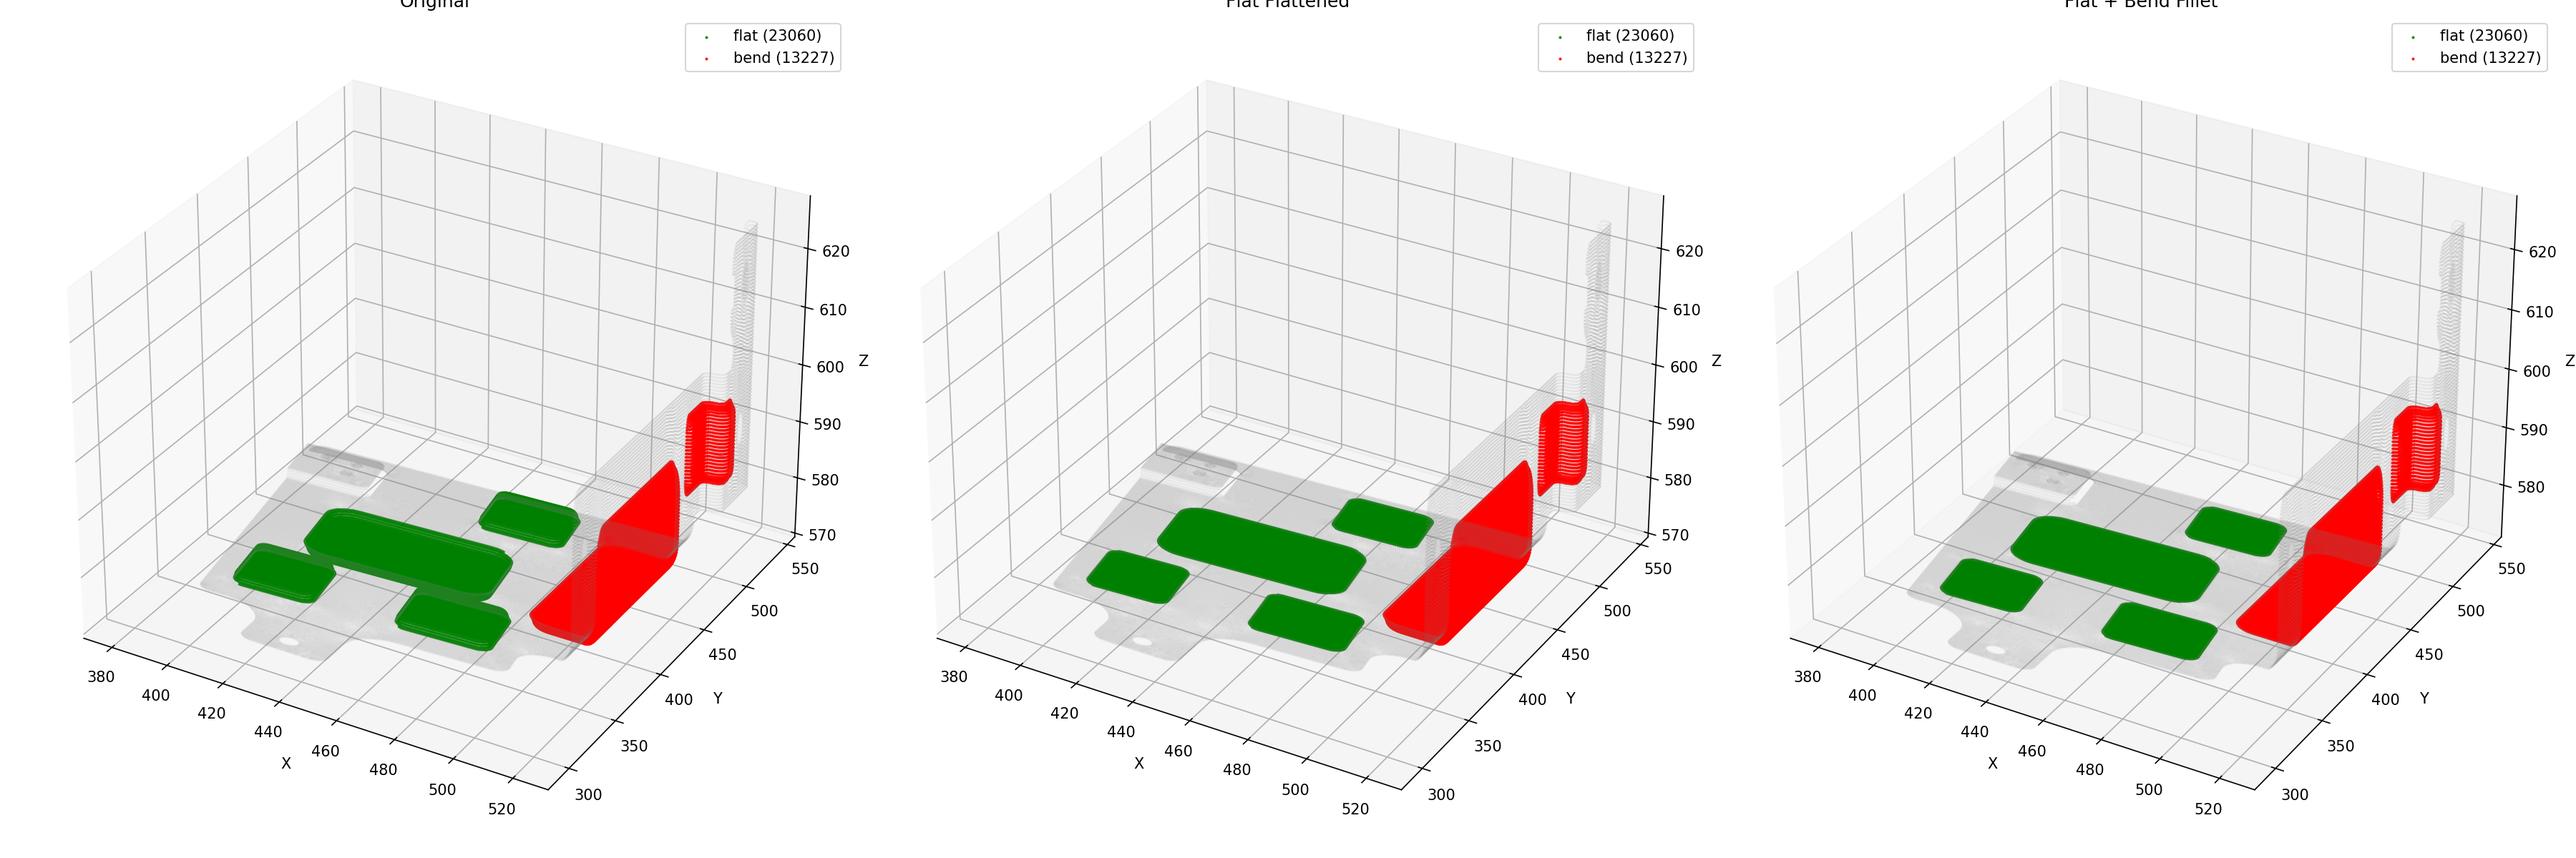
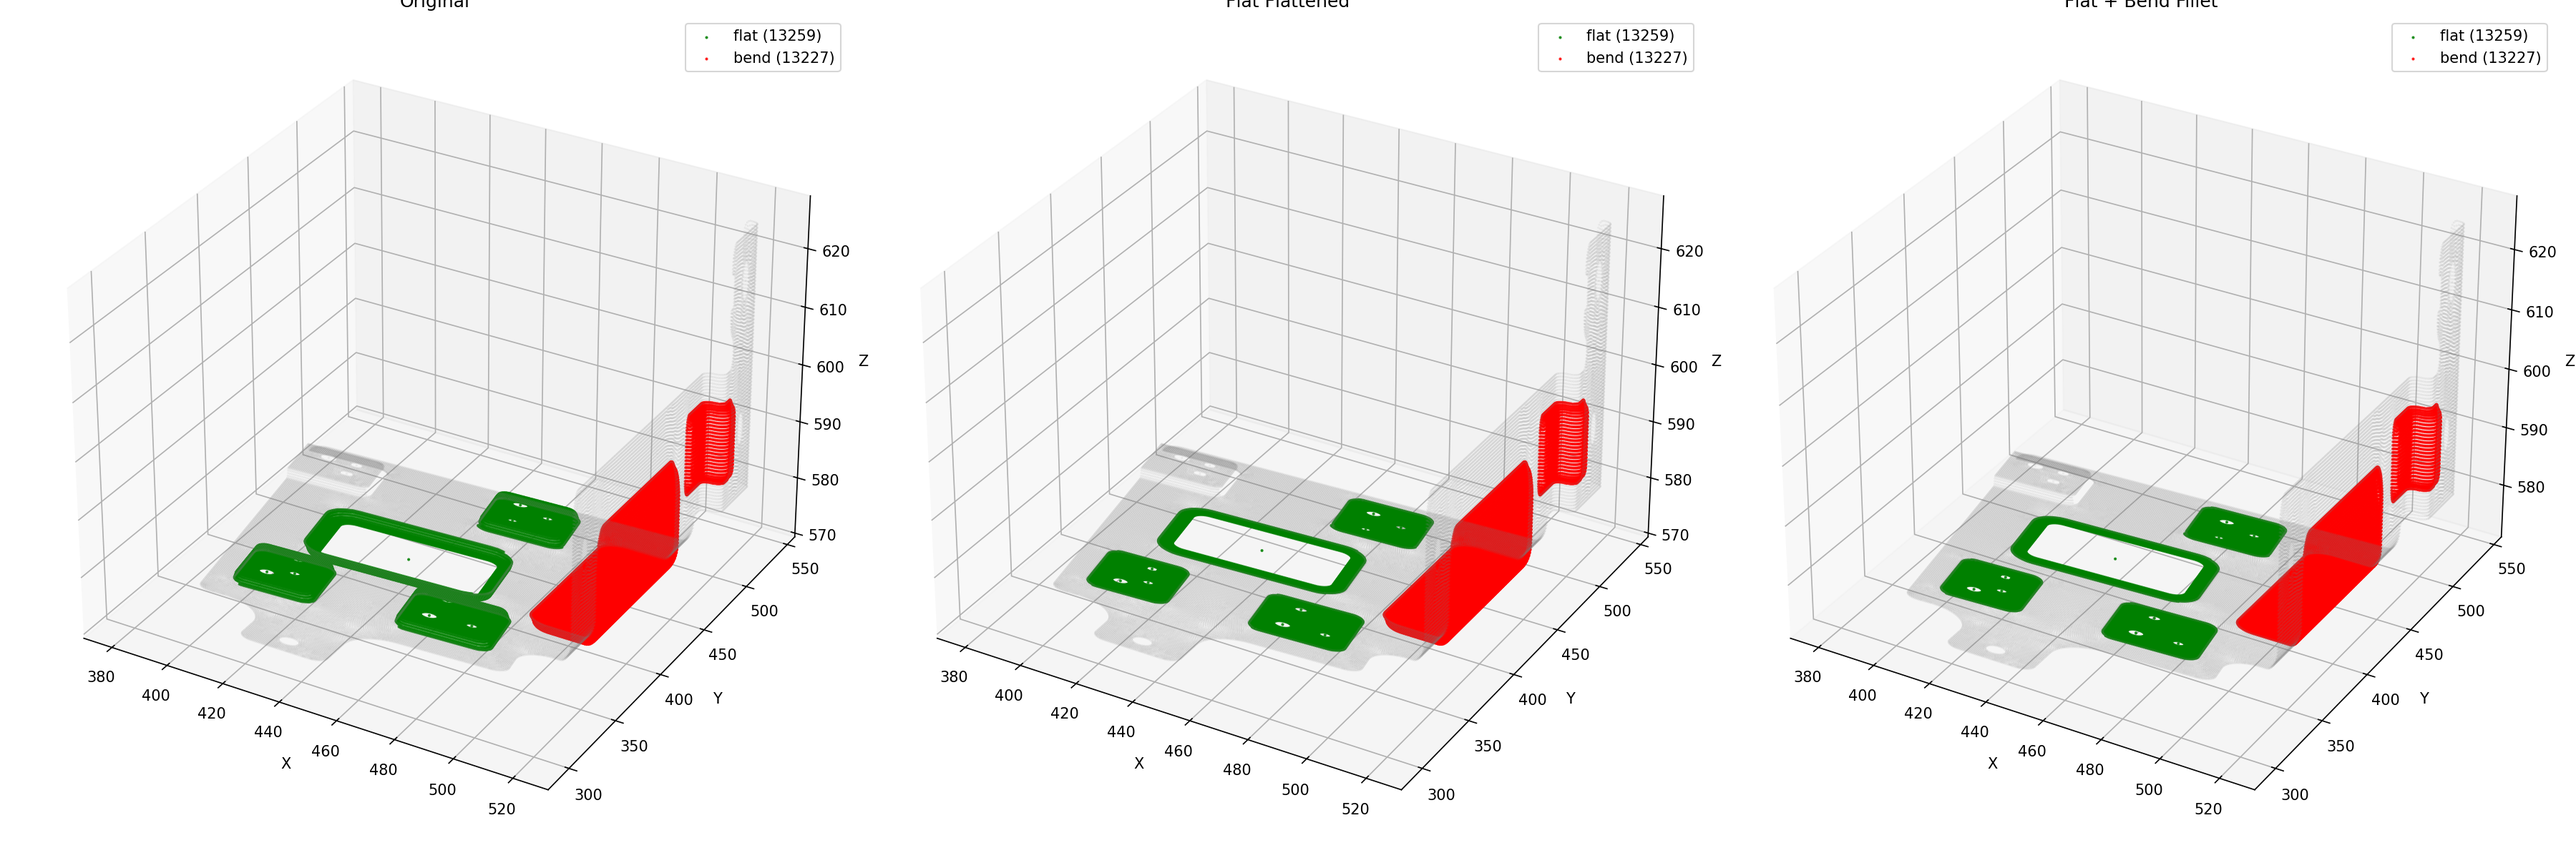
to_2d.ipynb results - 2026-04-22 01:43 KST

Changed region(s): [[0.7778, 0.6167, 0.8711, 0.7092], [0.4356, 0.5858, 0.5289, 0.6783], [0.1244, 0.6167, 0.2178, 0.7092]]

diff --git a/README.md b/README.md
@@ -4,7 +4,7 @@ This repo is used to share result images from Claude Code.
 
 **Timezone: KST (UTC+9)** — Server time is 9 hours behind KST.
 
-## MOBIS_GEN to_baseline full pipeline (2026-04-22 01:13 KST)
+## MOBIS_GEN to_2d.ipynb full run (2026-04-22 01:43 KST)
 
 ### 1. Point Cloud
 ![pointcloud](pointcloud.png)
@@ -12,17 +12,8 @@ This repo is used to share result images from Claude Code.
 ### 2. Outer Loop
 ![outer_loop](outer_loop.png)
 
-### 3. Region Growing (holes remeshed with Delaunay)
+### 3. Region Growing (holes filled)
 ![regions_fixed](regions_fixed.png)
 
-### 4. Main vs Bump Regions
-![main_bump](main_bump.png)
-
-### 5. Flat vs Bend Blobs
-![flat_bend](flat_bend.png)
-
-### 6. Flatten Result (Original / Flat / Bend)
+### 4. Flatten Result (Original / Flat / Bend)
 ![flatten_result](flatten_result.png)
-
-### 7. Translation Heatmap
-![translation_heatmap](translation_heatmap.png)
